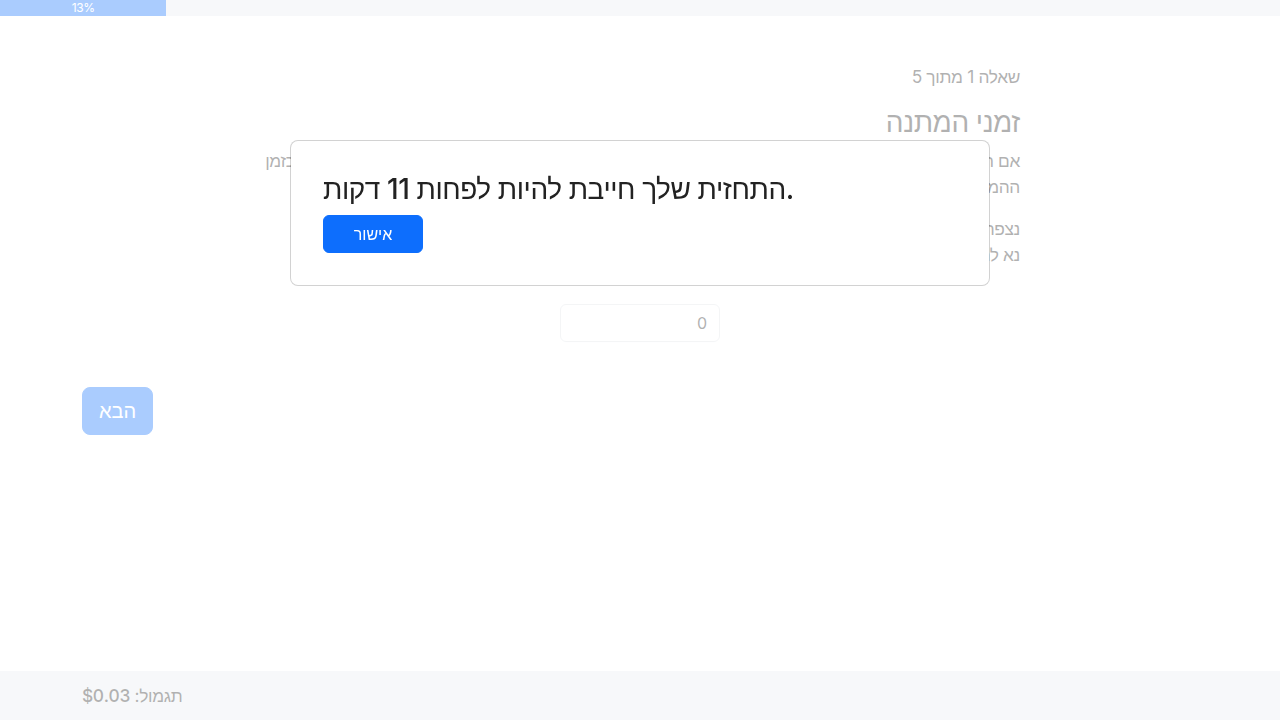
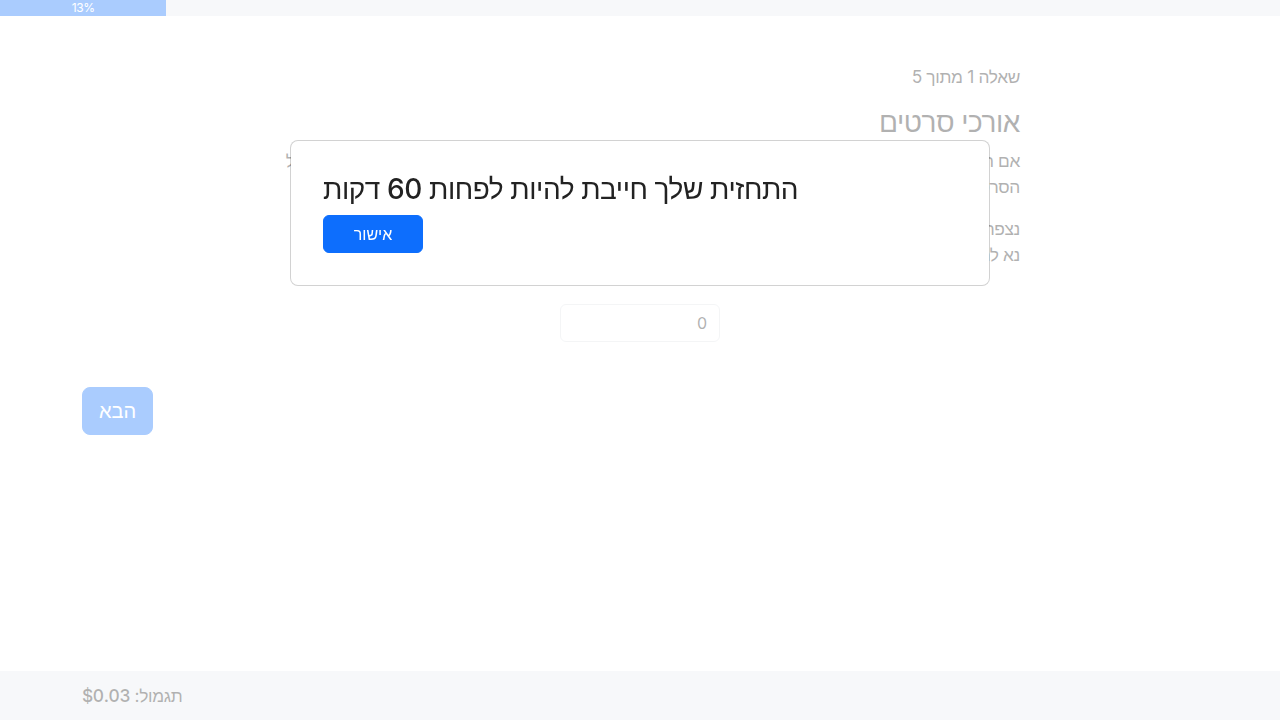
Refine Hebrew participant evidence

Changed region(s): [[0.2812, 0.2444, 0.625, 0.275], [0.6875, 0.1528, 0.8125, 0.1833], [0.1875, 0.2139, 0.2188, 0.2444]]

diff --git a/challenges/predicting-future-across-cultures/attempts/2026-06-15-20-06/code/predicting_future_across_cultures/tests/participant-flow.spec.js b/challenges/predicting-future-across-cultures/attempts/2026-06-15-20-06/code/predicting_future_across_cultures/tests/participant-flow.spec.js
@@ -8,11 +8,21 @@ const evidenceDir = process.env.EVIDENCE_DIR || path.resolve(__dirname, "../../.
 const screenshotDir = path.join(evidenceDir, "screenshots");
 const videoDir = path.join(evidenceDir, "raw-video");
 const recordVideo = process.env.RECORD_VIDEO === "1";
+const slowEvidence = process.env.SLOW_EVIDENCE === "1";
+const stopAtDebrief = process.env.STOP_AT_DEBRIEF === "1";
+
+async function pauseForEvidence(page, ms = 700) {
+  if (slowEvidence) {
+    await page.waitForTimeout(ms);
+  }
+}
 
 async function dismissValidation(page) {
   const modalButton = page.getByRole("button", { name: /OK|אישור|Va bene|בסדר/i });
   if (await modalButton.isVisible({ timeout: 2000 }).catch(() => false)) {
+    await pauseForEvidence(page, 1000);
     await modalButton.click();
+    await pauseForEvidence(page);
   }
 }
 
@@ -24,12 +34,14 @@ async function clickNext(page) {
     await page.getByRole("button").first().click();
   }
   await page.waitForLoadState("networkidle").catch(() => {});
+  await pauseForEvidence(page);
 }
 
 async function answerPredictionPage(page, value) {
   const input = page.locator("#number-input-container input");
   await input.waitFor({ state: "visible", timeout: 20000 });
   await input.fill(String(value));
+  await pauseForEvidence(page);
   await clickNext(page);
 }
 
@@ -95,6 +107,12 @@ test("participant flow screenshots and video evidence", async () => {
     locale === "it" ? "Grazie" : locale === "he" ? "תודה" : "Thank you"
   );
   await page.screenshot({ path: path.join(screenshotDir, `04_${locale}_debrief.png`), fullPage: true });
+  if (stopAtDebrief) {
+    await pauseForEvidence(page, 1500);
+    await context.close();
+    await browser.close();
+    return;
+  }
   await clickNext(page);
 
   await page.waitForURL(/recruiter-exit|worker_complete|complete|questionnaire/, { timeout: 30000 }).catch(() => {});

diff --git a/challenges/predicting-future-across-cultures/attempts/2026-06-15-20-06/REPORT.md b/challenges/predicting-future-across-cultures/attempts/2026-06-15-20-06/REPORT.md
@@ -36,4 +36,4 @@ The simulated patterns are workflow evidence only. They show that the experiment
 
 ## Limitations
 
-The Italian and Hebrew translations were written manually for challenge evidence and should receive native-speaker review before real deployment. Bot-generated differences are intentionally artificial and should not be interpreted as human cultural effects.
+The Italian and Hebrew translations were written manually for challenge evidence and should receive native-speaker review before real deployment. Bot-generated differences are intentionally artificial and should not be interpreted as human cultural effects. Hebrew experiment-owned content is right-aligned and right-to-left, but PsyNet-owned navigation elements such as the global progress bar still use the framework's default left-to-right layout.